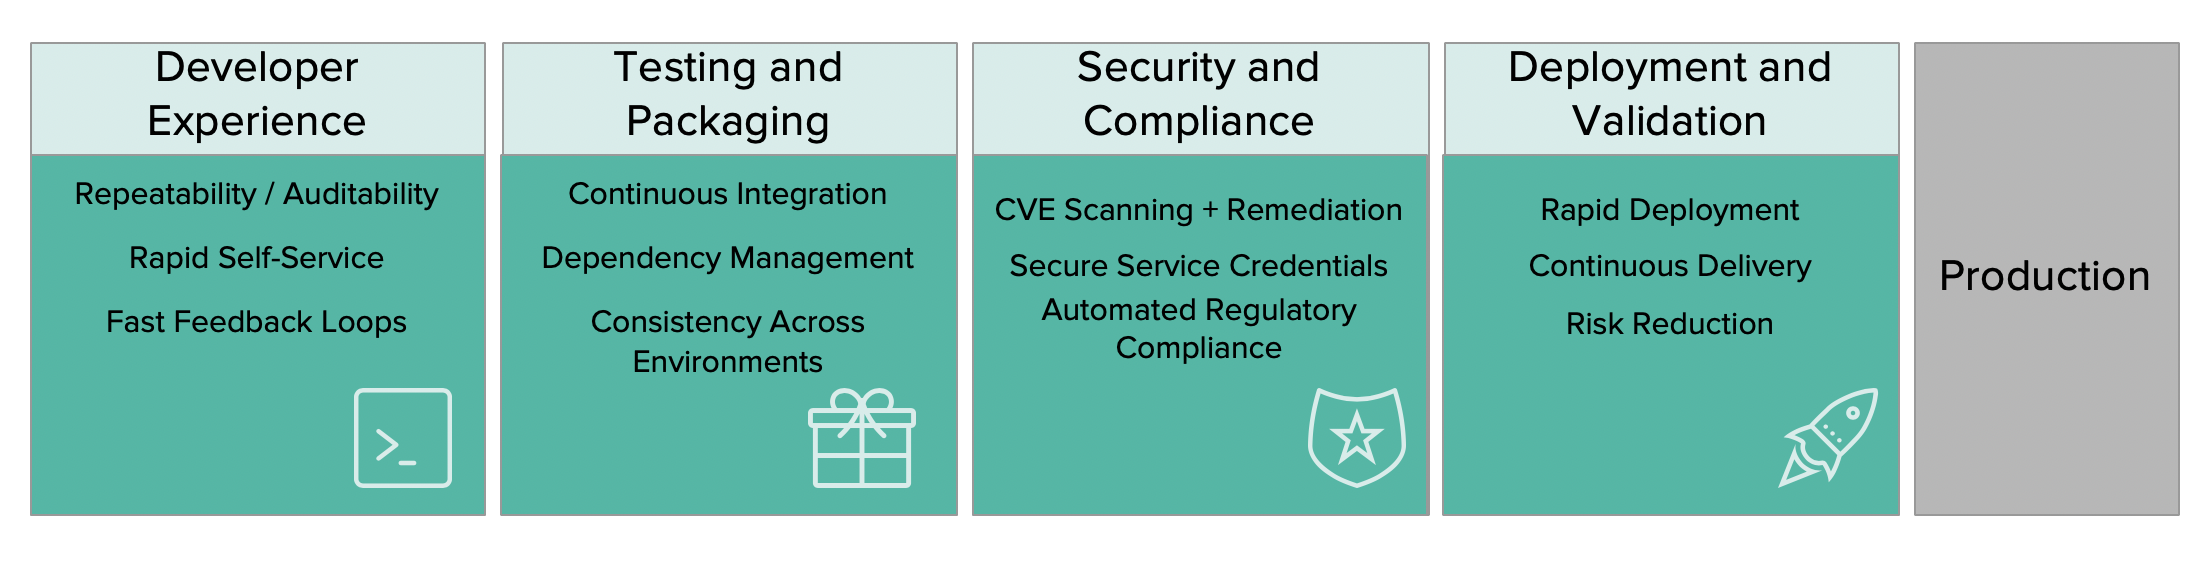
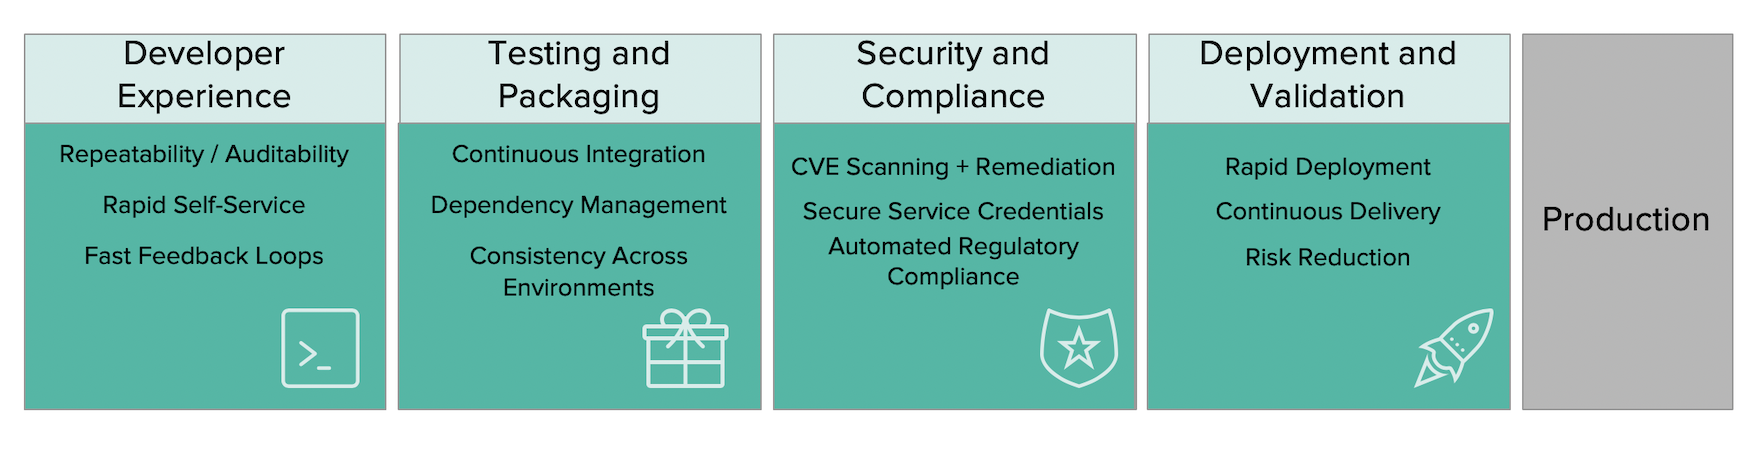
updated post, resize image

diff --git a/content/patterns/deployment/_index.md b/content/patterns/deployment/_index.md
@@ -22,4 +22,4 @@ What kind of tools are needed to meet these requirements in those areas? Which u
 
  ![img](/images/patterns/deployment/path-to-prod-3.png)
 
-From a developer's perspective, the items are the left are top of mind because they use them on a daily basis. 
+From a developer's perspective, the items are the left are top of mind because they use them on a daily basis but there are a lot of components on the right-hand size that can be a necessity before going into production. For this pattern, this is where there will be deeper dives on each of these areas and tools, but examples of this pattern where these components are brought together to deliver code from commit to production.
